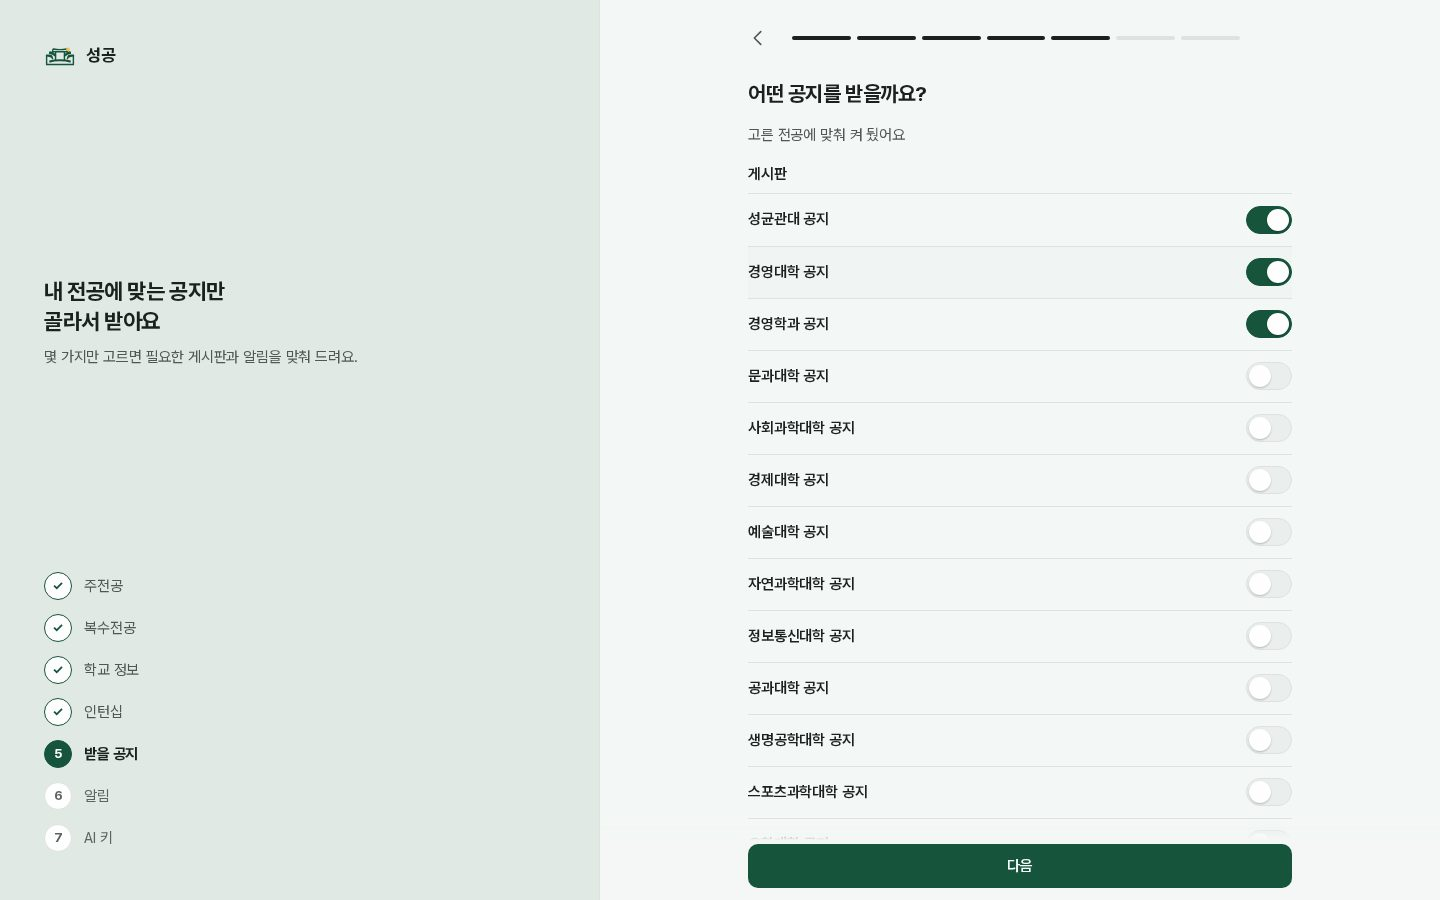
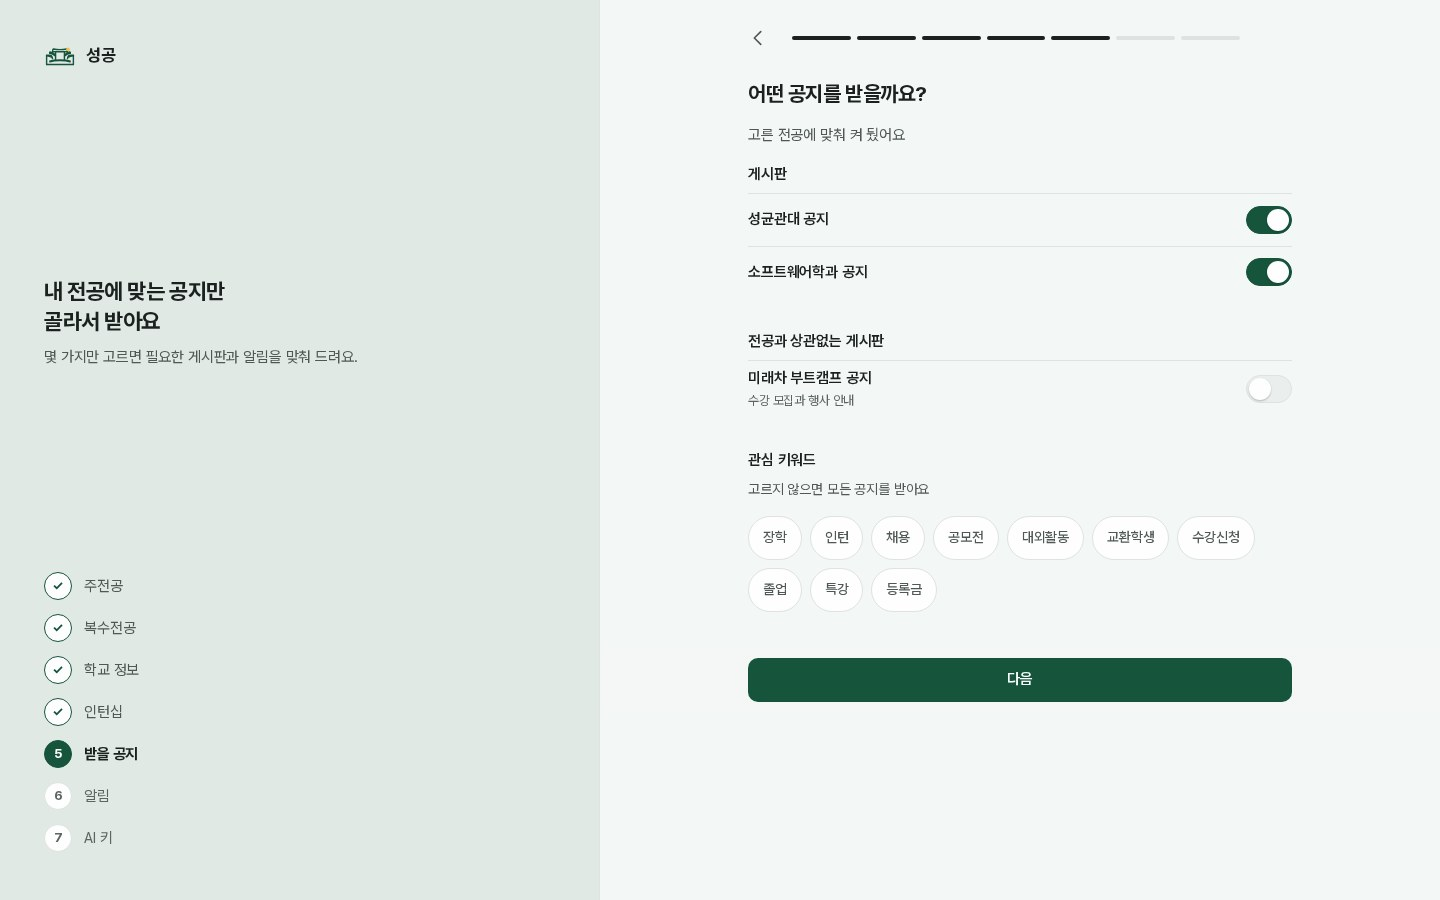
docs: README의 첫 설정 설명과 캡처를 현재 화면에 맞추고 AI 업체를 Groq, Gemini로 적는다

diff --git a/README.md b/README.md
@@ -32,7 +32,7 @@ Google 계정으로 로그인합니다.
 
 ### 2. 첫 설정
 
-처음 로그인하면 7단계 설정이 시작됩니다. 주전공(대학을 먼저 고른 뒤 학과), 복수전공, 학교 정보, 인턴십, 받을 공지, 알림, AI 키 순서이며, 건너뛸 수 없고 전공과 AI 키 하나는 꼭 입력해야 끝납니다. 다음 단추가 막혀 있으면 이유를 한 줄로 알려 줍니다.
+처음 로그인하면 7단계 설정이 시작됩니다. 주전공(학과 이름으로 바로 찾거나 대학을 먼저 고른 뒤 학과), 복수전공, 학교 정보, 인턴십, 받을 공지, 알림, AI 키 순서입니다. 처음에만 열리고 건너뛸 수 없으며, 전공과 AI 키(Groq, Gemini 중 최소 1개 이상)는 꼭 입력해야 끝납니다. 받을 공지 단계에서는 켜 둔 게시판 아래에 기타 게시판과 관심 키워드가 바로 보입니다. 다음 단추가 막혀 있으면 이유를 한 줄로 알려 줍니다.
 
 | 1단계 주전공 | 5단계 받을 공지 | 7단계 AI 키 |
 |:---:|:---:|:---:|
@@ -87,13 +87,13 @@ Google 계정으로 로그인합니다.
 ## 할 수 있는 것
 
 - **공지 보기**: 성균관대 공지, 단과대학·학과 게시판(60여 개), 부트캠프, 외부 인턴 공고(링커리어, 자소설닷컴, 학생인재개발팀)를 한곳에서 봅니다. 게시판은 로그인한 사용자가 고른 것만 수집합니다.
-- **첫 로그인 설정**: 주전공과 복수전공(대학을 먼저 고른 뒤 학과), 학교 정보(학년·재학 상태·병역), 인턴십, 받을 공지(전공과 상관없는 게시판과 관심 키워드 포함), 알림, AI 키의 7단계입니다. 건너뛸 수 없고 전공과 AI 키 하나는 꼭 입력해야 끝납니다.
+- **첫 로그인 설정**: 주전공과 복수전공(대학을 먼저 고른 뒤 학과), 학교 정보(학년·재학 상태·병역), 인턴십, 받을 공지(전공과 상관없는 게시판과 관심 키워드 포함), 알림, AI 키의 7단계입니다. 처음에만 열리고 건너뛸 수 없으며, 전공과 AI 키(Groq, Gemini 중 최소 1개 이상)는 꼭 입력해야 끝납니다. 받을 공지 단계에서는 켜 둔 게시판 아래에 기타 게시판과 관심 키워드가 바로 보입니다.
 - **공지 읽기**: 검색, 최신순·마감순 정렬, 읽지 않은 글 보기, 선택한 공지나 현재 목록의 읽음 표시, 저장한 공지 모아 보기를 지원합니다. 관심 키워드에는 현재 보기에서 키워드에 맞는 글 수를 보여 주고, 마감이 있는 공지와 인턴 공고에는 마감을 표시합니다. 키보드로 J·K(이동), S(저장), Enter(원문), Esc(닫기)를 쓸 수 있습니다.
 - **공지 상세**: 본문, 그림 속 글자(OCR로 읽은 글), 첨부 파일, 원문 열기를 한 화면에서 봅니다. 학교가 제목이나 본문을 고친 글에는 고친 날짜를 표시하고, 본문이 아직 없으면 원문으로 바로 갈 수 있게 안내합니다.
 - **알림**: 웹 푸시(VAPID)로 새 공지를 보냅니다. 관심 키워드가 맞는 공지는 소리로, 나머지는 조용히 보내고 학교가 고친 중요한 글은 한 번 더 알립니다.
 - **기기별 알림 관리**: 이 기기의 알림을 직접 켜고 끄며, 테스트 알림으로 도착하는 모습을 확인합니다. 등록된 기기 목록에서 기기 이름을 바꾸고 다른 기기를 지울 수 있습니다. 로그아웃하면 이 기기의 알림 등록을 해제하고 계정이 바뀌면 이전 계정의 기기 구독을 정리합니다. 키워드는 설정에서 바로 추가·삭제하고 계정에 순서대로 저장합니다.
 - **화면과 설치**: 라이트·다크·자동 모드, 앱 설치(PWA), 성대 공지 탭에 "모든 게시판"이나 "받는 게시판만" 보기를 고를 수 있습니다. 서버 연결에 실패하면 마지막 공지 스냅샷을 보여 줍니다.
-- **내 AI 키**: 사용자가 직접 넣은 AI 키로 성대 공지와 인턴 공고가 나에게 맞는지 판정해, 맞는 공지를 소리로 알립니다(무료 모델만 씁니다). 키를 여러 개 넣으면 상한 대비 덜 쓴 키부터 번갈아 쓰고, 한 곳이 막히면 다른 곳으로 넘어갑니다. 상한은 업체마다 다르게 두었고, 이미 판정한 공지는 다시 호출하지 않습니다. 키는 암호화해 서버에만 보관하며 브라우저가 읽을 수 없고, 그 사용자 본인의 공지 처리에만 쓰입니다.
+- **내 AI 키**: 사용자가 직접 넣은 AI 키(Groq, Gemini)로 성대 공지와 인턴 공고가 나에게 맞는지 판정해, 맞는 공지를 소리로 알립니다(무료 모델만 씁니다). 키를 여러 개 넣으면 상한 대비 덜 쓴 키부터 번갈아 쓰고, 한 곳이 막히면 다른 곳으로 넘어갑니다. 상한은 업체마다 다르게 두었고, 이미 판정한 공지는 다시 호출하지 않습니다. 키는 암호화해 서버에만 보관하며 브라우저가 읽을 수 없고, 그 사용자 본인의 공지 처리에만 쓰입니다.
 - **판정 순서와 보관**: 새로 가입해 밀린 공지가 많아도 구독한 게시판의 마감이 가까운 공지부터 판정하고, 이미 마감된 공지에는 키를 쓰지 않습니다. 서버의 공지는 마감 30일 뒤(마감이 없으면 처음 본 지 90일 뒤) 지우며, 사용자가 저장한 공지는 지우지 않습니다.
 - **인턴십 졸업요건 확인**: 소프트웨어학과 원전공이나 학교 3품 인턴십을 선택한 사용자에게, 인턴 공고에 적힌 근무 기간·시간으로 학과 기준(전일제 28일 이상, 파트타임 160시간 이상)과 3품 기준(280시간)에 맞는지 판단해 이유와 근거를 보여 줍니다. 여러 직무를 뽑는 공고에서 소프트웨어와 관련 있어 보이는 직무가 있으면 그 이름을 말하고 가능으로 봅니다. 규칙 버전이 바뀌면 저장된 판정을 서버가 조금씩 새 규칙으로 다시 만듭니다. 실제 인정 여부는 학교와 학과에 확인해야 합니다.
 - **아이캠퍼스 토큰(선택)**: 사용자가 직접 만든 아이캠퍼스(Canvas) 토큰으로 마감이 가까운 과제와 퀴즈를 알립니다. 설정의 "기타" 아래 "아이캠퍼스" 페이지에서 알림, 토큰, 하루 요약 순서로 정합니다. 기기마다 "끄기, 하루 요약, 요약과 마감" 중 받을 방식을 고르고, 하루 요약 시간은 직접 정합니다. 토큰은 AI 키와 같은 방식으로 보호합니다.
